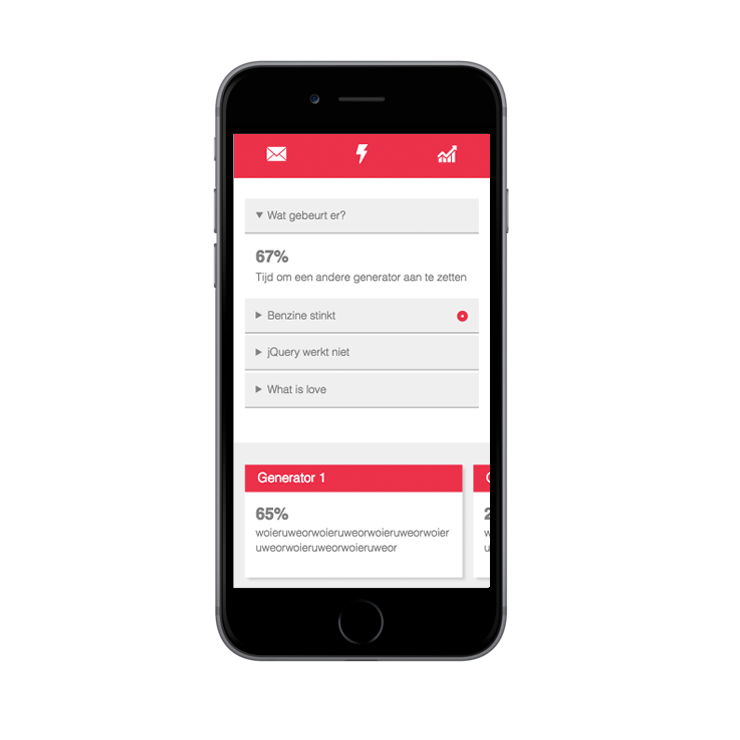
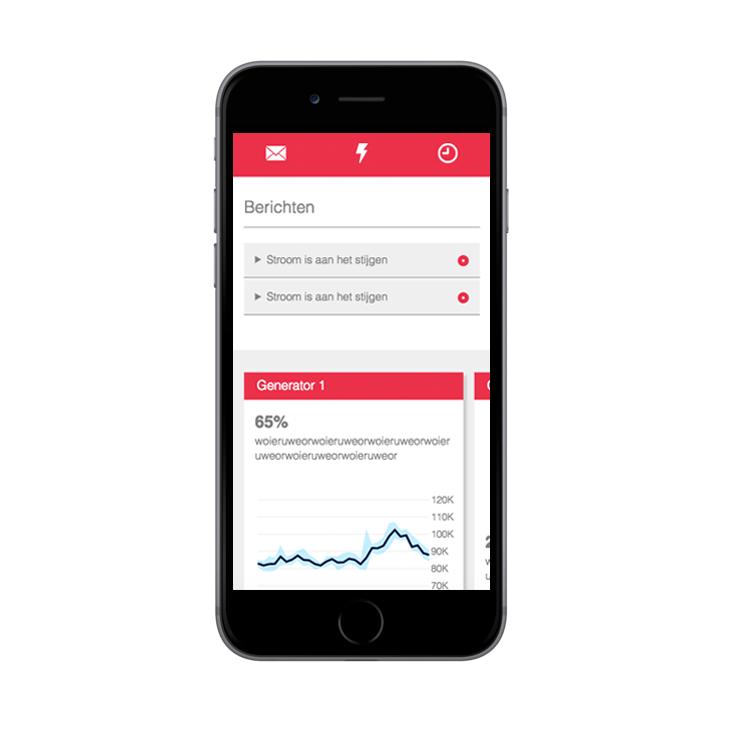
:memo: Wishlist, features, new screen

Changed region(s): [[0.3108, 0.4662, 0.6838, 0.8081], [0.3108, 0.1865, 0.6527, 0.4351]]

diff --git a/README.md b/README.md
@@ -2,12 +2,19 @@
   <img width="55%" src="media/example.png" alt="example">
   <br>
   <br>
-  Watt-Now
+  Sigma
 </h1>
 <br>
 
 ## The app
 This app makes sure the infra-team working on a festival gets to know what needs to be done, before it needs to be done. Our app shows incoming status updates, these updates can be based on an algorithm that checks if the voltage peak is rapidly increasing/decreasing or if a generator is low on its 2G budget. Besides the messages the infra-team can see a real-time graph that displays the voltage usage of a generator.
+
+## Features
+-  [x] progressive web app
+-  [x] algorithm that predicts when a generator is gonna spike or not
+-  [x] real-time notifications about different issues concerning the generators
+-  [x] real-time D3.js graph that shows how much voltage is used per minute
+-  [x] history of old notifications
 
 ## Build
 To run the application:
@@ -28,8 +35,18 @@ npm start
 
 To start the server.
 
+## Wishlist
+-  [ ] multiple working graphs
+-  [ ] uploading new timetables to the app
+-  [ ] getting real 2G credit data that sends a notification once its low
+
 ## Team
 
 ![Luuk Hafkamp](https://avatars0.githubusercontent.com/u/14187210?v=3&s=150) | ![Sjoerd Beentjes](https://avatars3.githubusercontent.com/u/11621275?v=3&s=150) | ![Merlijn Vos](https://avatars1.githubusercontent.com/u/9060226?v=3&s=150) |
 ---|---|---
 [Luuk Hafkamp](https://github.com/lhafkamp) | [Sjoerd Beentjes](https://github.com/Sjoerdbeentjes) | [Merlijn Vos](https://github.com/Murderlon) |
+
+## Sources
+
+<a href="https://d3js.org/">d3.js</a>
+<a href="https://socket.io/">socket.io</a>
